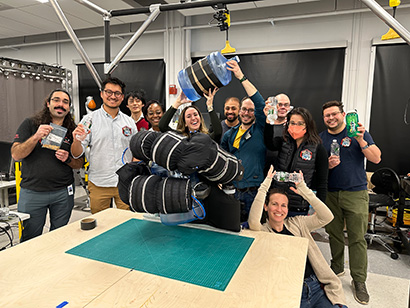
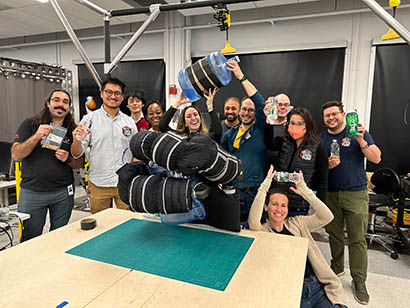
rotated and adjusted team photos

diff --git a/site/cv/projects.html b/site/cv/projects.html
@@ -635,10 +635,10 @@
 
             <div class="media-flex-container">
                 <a style="display: contents" target="_blank" href="../photos/projects/Punyo/PunyoTeamPhotoMarchDemo.jpg">
-                    <img style="border-radius: 2%;" loading="lazy" class="media-flex-img-halfwidth media-shadow hvr-shadow" src="../photos/projects/thumbs_lg/PunyoTeamPhotoMarchDemohalfthumb.jpg" alt="Punyo Team Photo">
+                    <img style="border-radius: 10px; transform: rotate(-4deg) scale(1.0); z-index: 99; outline: 4px solid white;" loading="lazy" class="media-flex-img-halfwidth media-shadow hvr-shadow" src="../photos/projects/thumbs_lg/PunyoTeamPhotoMarchDemohalfthumb.jpg" alt="Punyo Team Photo">
                 </a>
                 <a style="display: contents" target="_blank" href="../photos/projects/Punyo/PunyoTeamPhoto.jpg">
-                    <img style="border-radius: 2%;" loading="lazy" class="media-flex-img-halfwidth media-shadow hvr-shadow" src="../photos/projects/thumbs_lg/PunyoTeamPhotohalfthumb.jpg" alt="Punyo Team Photo">
+                    <img style="border-radius: 10px; transform: rotate(4deg) scale(1.07); outline: 4px solid white;" loading="lazy" class="media-flex-img-halfwidth media-shadow hvr-shadow" src="../photos/projects/thumbs_lg/PunyoTeamPhotohalfthumb.jpg" alt="Punyo Team Photo">
                 </a>
             </div>
             <br>
